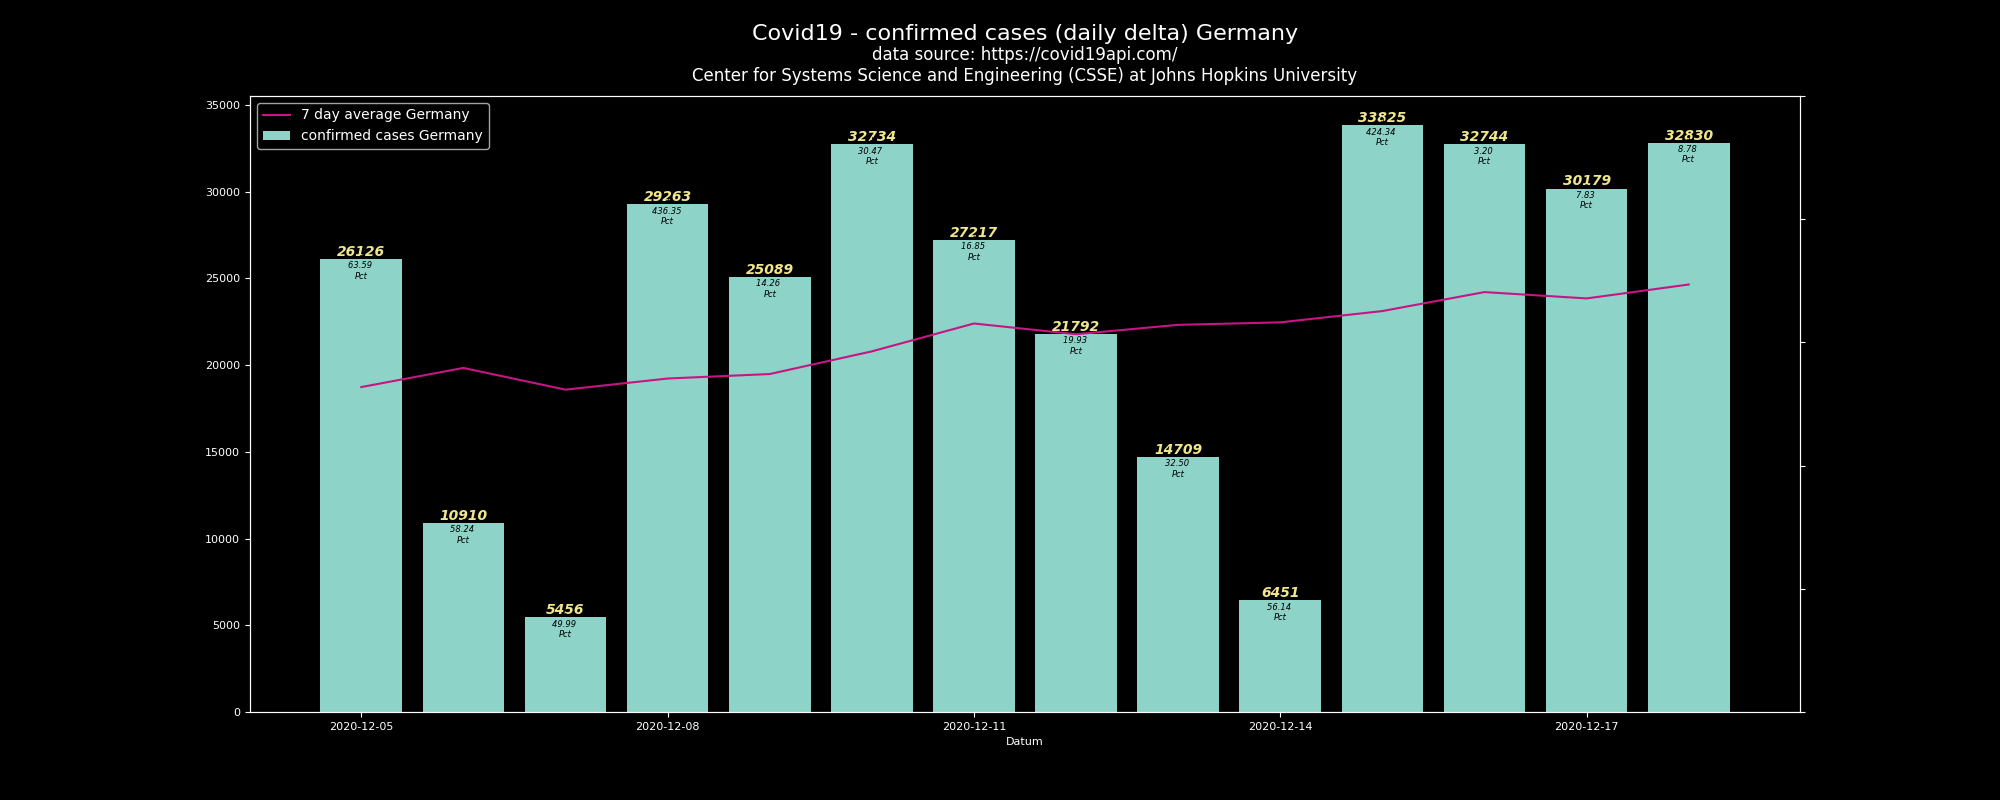
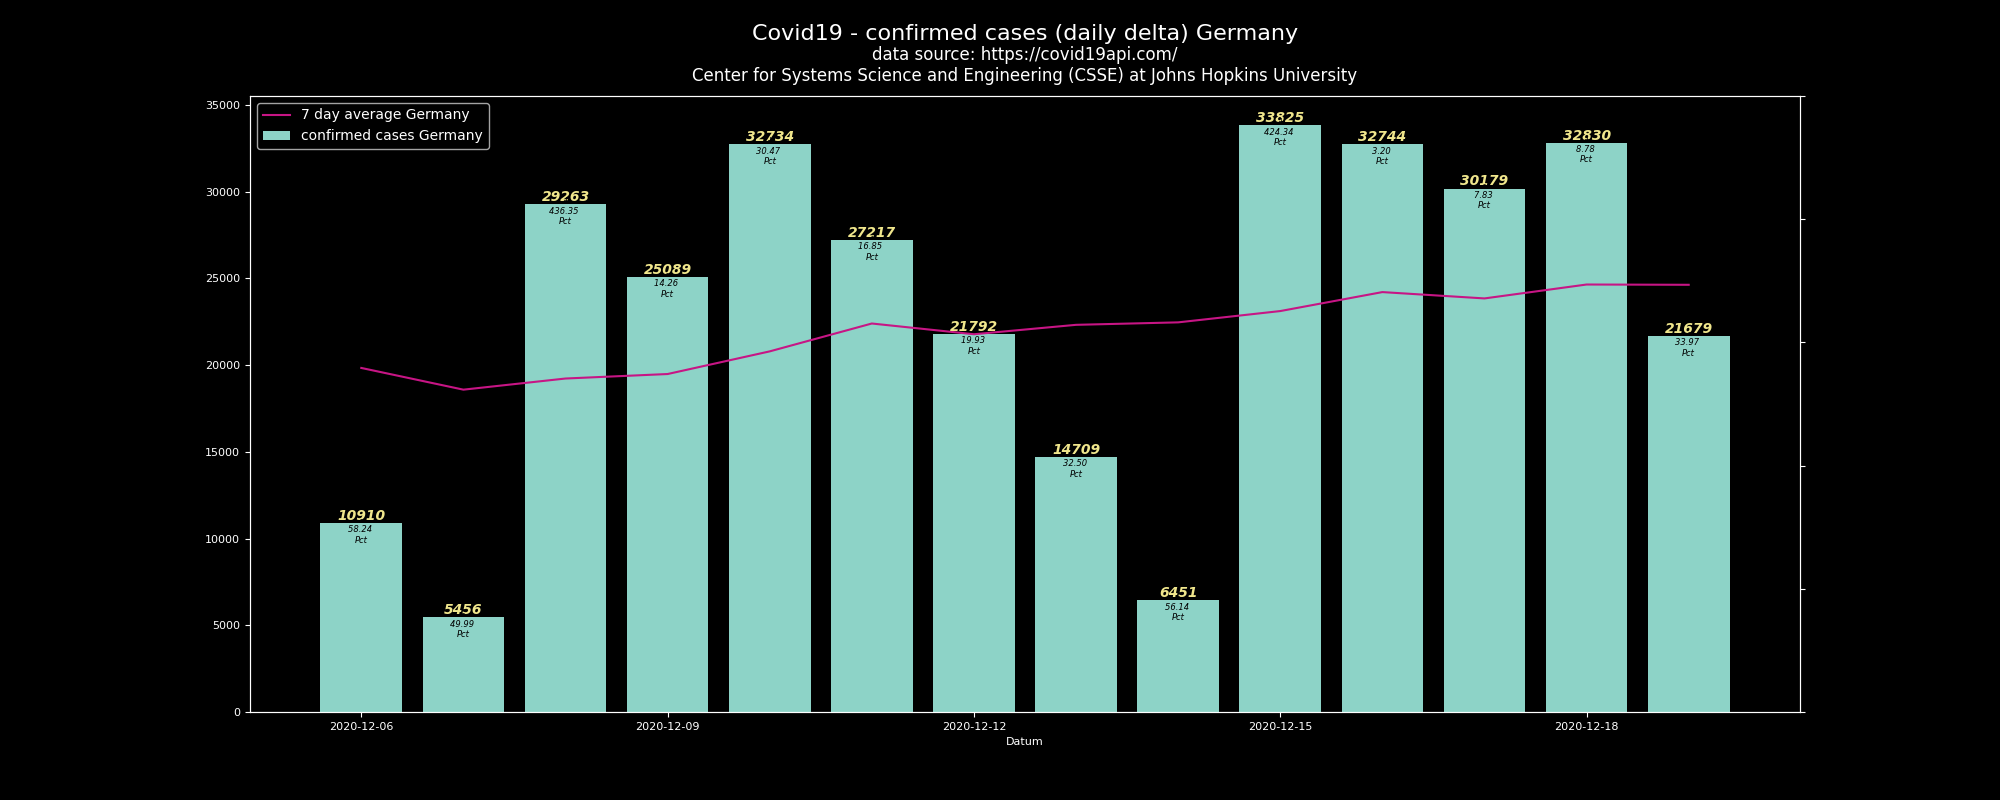
01012020

Changed region(s): [[0.155, 0.125, 0.868, 0.7812]]

diff --git a/html_output/covid.html b/html_output/covid.html
@@ -112,7 +112,7 @@ span {color: red;
     </tr>
   </thead>
   <tbody>
-      <tr><td class="align-middle">1</td><td>LK Pfaffenhofen a.d.Ilm</td> <td style=color:white;background-color:#8B0000 important!;>  258,1</td><td class=font-effect-fire-animation style=text-align:right important!>   24,2 </td><td><img src="https://storage.googleapis.com/darkshadow-share/red_up.png" class="arrow"></td></tr><tr><td class="align-middle">2</td><td>SK Ingolstadt</td> <td style=color:white;background-color:#8B0000 important!;>  214,7</td><td style=text-align:right important!>   -2,9</td><td><img src="https://storage.googleapis.com/darkshadow-share/green_down.png" class="arrow"></td></tr><tr><td class="align-middle">3</td><td>LK Eichstätt</td> <td style=color:white;background-color:#8B0000 important!;>  168,5</td><td class=font-effect-fire-animation style=text-align:right important!>    7,5 </td><td><img src="https://storage.googleapis.com/darkshadow-share/red_up.png" class="arrow"></td></tr><tr><td class="align-middle">4</td><td>LK Kelheim</td> <td style=color:white;background-color:#8B0000 important!;>  164,1</td><td class=font-effect-fire-animation style=text-align:right important!>    7,3 </td><td><img src="https://storage.googleapis.com/darkshadow-share/red_up.png" class="arrow"></td></tr>
+      <tr><td class="align-middle">1</td><td>LK Eichstätt</td> <td style=color:white;background-color:#8B0000 important!;>  158,0</td><td style=text-align:right important!>   -9,8</td><td><img src="https://storage.googleapis.com/darkshadow-share/green_down.png" class="arrow"></td></tr><tr><td class="align-middle">2</td><td>LK Pfaffenhofen a.d.Ilm</td> <td style=color:white;background-color:#8B0000 important!;>  149,7</td><td class=font-effect-fire-animation style=text-align:right important!>    2,4 </td><td><img src="https://storage.googleapis.com/darkshadow-share/red_up.png" class="arrow"></td></tr><tr><td class="align-middle">3</td><td>LK Kelheim</td> <td style=color:white;background-color:#8B0000 important!;>  146,2</td><td class=font-effect-fire-animation style=text-align:right important!>   12,2 </td><td><img src="https://storage.googleapis.com/darkshadow-share/red_up.png" class="arrow"></td></tr><tr><td class="align-middle">4</td><td>SK Ingolstadt</td> <td style=color:white;background-color:#f00148 important!;>  96,07</td><td class=font-effect-fire-animation style=text-align:right important!>   8,01 </td><td><img src="https://storage.googleapis.com/darkshadow-share/red_up.png" class="arrow"></td></tr>
       
                    
                     <tr><td colspan = 5  style=text-align:center important!;">
@@ -130,12 +130,12 @@ span {color: red;
                                         padding: 10px;
                                         ">
                                     Neuinfektionen gg Vortag DE (RKI)
-                            <br><span>31.300</span><br></td></div></tr>
+                            <br><span>22.924</span><br></td></div></tr>
                             </td> 
                     
                               
                     
-      <tr><td colspan = 2 >Letzte Aktualisierung</td> <td colspan=3>19.12.2020, 00:00 Uhr</td></tr>
+      <tr><td colspan = 2 >Letzte Aktualisierung</td> <td colspan=3>01.01.2021, 00:00 Uhr</td></tr>
       
       <tr><td colspan = 5><img src="https://storage.googleapis.com/darkshadow-share/plot.png" class="plot"></td></tr>
   </tbody>
